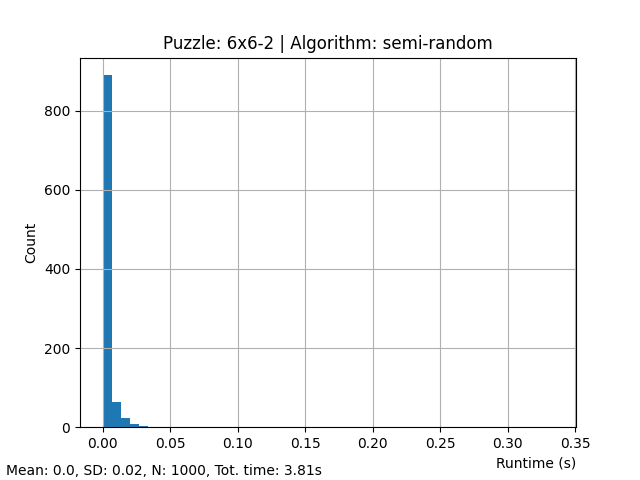
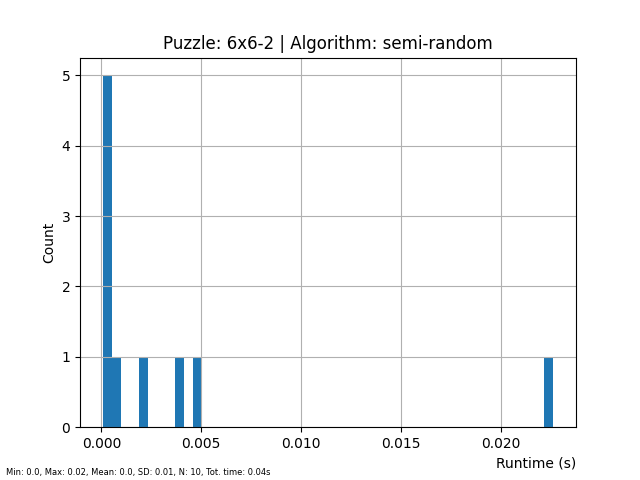
problems hillclimber algorithm histogram

diff --git a/main.py b/main.py
@@ -1,8 +1,6 @@
 """
 Importing required packages
 """
-from ast import AsyncFunctionDef
-import timeit
 import pandas as pd
 from code.algorithms.semi_random import Semi_random
 from code.algorithms.BFS import BFS
@@ -14,88 +12,92 @@ import matplotlib.pyplot as plt
 import numpy as np
 import sys
 import os
-"""
-Setting the dimensions and puzzle number to load correct configuration file 
-"""
-dimensions = 6
-puzzle_number = 1
-Rushhour_df = pd.read_csv(f"gameboards/Rushhour{dimensions}x{dimensions}_{puzzle_number}.csv")
 
-"""
-Creation of the different elements
-"""
-game = Board(dimensions)
-semi_random = Semi_random(game)
-bfs = BFS(game)
-bfs_plus = BFS_plus(game)
-bfs_plus_prune = BFS_plus_prune(game)
-hill = Hill(game)
+dimensions_list = [6, 6, 6, 9, 9, 9]
+puzzle_number_list = [1, 2, 3, 4, 5, 6]
 
-"""
-Setting up the board to run algorithm
-"""
-game.load_cars(Rushhour_df)
-game.place_car(game.cars)
-game.printBoard()
-
-"""
-Run chosen algorithm
-"""
-#hill.hill()
-#bfs_plus.bfs_plus()
-#bfs.bfs()
-#bfs_plus_prune.bfs_plus_prune()
-#semi_random.semi_random()
-
-
-"""
-Set correct output
-"""
-game.printBoard()
-game.writeOutput()
-
-
-def histogram(name, algorithm_obj, algorithm_func, runs):
-
+def easyhistloop(dimensions, puzzle_number, output): 
     """
-    Turn printing off
-    """
-    old_stdout = sys.stdout
-    sys.stdout = open(os.devnull, "w")
-
-    times = []
-    moves = []
-    for i in range(runs): 
-        game.running = True
-        time, move = getattr(algorithm_obj, algorithm_func)()
-        times.append(time)
-        moves.append(move)
-    nbins = 50
-
-    """
-    Turn printing back on
-    """
-    sys.stdout = old_stdout
-
-    """
-    Plotting of histogram
+    Setting the dimensions and puzzle number to load correct configuration file 
     """
 
-    plt.hist(moves, range = [min(moves), max(moves)], bins=nbins)
-    plt.title(f"Puzzle: {dimensions}x{dimensions}-{puzzle_number} | Algorithm: {name}")
-    plt.figtext(0.01, 0.01, f"Mean: {round(np.mean(moves), 2)}, SD: {round(np.std(moves), 2)}, N: {runs}, Tot. time: {round(game.stop - game.start, 2)}s")
-    plt.xlabel(f"# of Moves", horizontalalignment = 'right', x = 1)
-    plt.ylabel(f"Count")
-    plt.grid()
-    plt.savefig(f"figures/Puzzle: {dimensions}x{dimensions}-{puzzle_number} - Algorithm: {name} - moves")
-    plt.clf()
+    Rushhour_df = pd.read_csv(f"gameboards/Rushhour{dimensions}x{dimensions}_{puzzle_number}.csv")
 
-    plt.hist(times, range = [min(times), max(times)], bins=nbins)
-    plt.title(f"Puzzle: {dimensions}x{dimensions}-{puzzle_number} | Algorithm: {name}")
-    plt.figtext(0.01, 0.01, f"Mean: {round(np.mean(times), 2)}, SD: {round(np.std(times), 2)}, N: {runs}, Tot. time: {round(game.stop - game.start, 2)}s")
-    plt.xlabel(f"Runtime (s)", horizontalalignment = 'right', x = 1)
-    plt.ylabel(f"Count")
-    plt.grid()
-    plt.savefig(f"figures/Puzzle: {dimensions}x{dimensions}-{puzzle_number} - Algorithm: {name} - time")
+    """
+    Creation of the different elements
+    """
+    game = Board(dimensions)
+    semi_random = Semi_random(game)
+    bfs = BFS(game)
+    bfs_plus = BFS_plus(game)
+    bfs_plus_prune = BFS_plus_prune(game)
+    hill = Hill(game)
 
-histogram("semi-random", semi_random, "semi_random", 1000)
+    """
+    Setting up the board to run algorithm
+    """
+    game.load_cars(Rushhour_df)
+    game.place_car(game.cars)
+    game.printBoard()
+
+    def histogram(name, algorithm_obj, algorithm_func, runs):
+
+        """
+        Turn printing off
+        """
+        old_stdout = sys.stdout
+        sys.stdout = open(os.devnull, "w")
+
+        times = []
+        moves = []
+        for i in range(runs): 
+            game.running = True
+            time, move = getattr(algorithm_obj, algorithm_func)()
+            times.append(time)
+            moves.append(move)
+        nbins = 50
+
+        output["Name"].append(f"Puzzle: {dimensions}x{dimensions}-{puzzle_number} - Algorithm: {name}")
+        output["Mean time"].append(round(np.mean(times), 2))
+        output["Mean moves"].append(round(np.mean(moves), 2))
+
+        """
+        Turn printing back on
+        """
+        sys.stdout = old_stdout
+
+        """
+        Plotting of histogram
+        """
+
+        plt.hist(moves, range = [min(moves), max(moves)], bins=nbins)
+        plt.title(f"Puzzle: {dimensions}x{dimensions}-{puzzle_number} | Algorithm: {name}")
+        plt.figtext(0.01, 0.01, f"Min: {round(min(moves), 2)}, Max: {round(max(moves), 2)}, Mean: {round(np.mean(moves), 2)}, SD: {round(np.std(moves), 2)}, N: {runs}, Tot. time: {round(game.stop - game.start, 2)}s", fontsize=6)
+        plt.xlabel(f"# of Moves", horizontalalignment = 'right', x = 1)
+        plt.ylabel(f"Count")
+        plt.grid()
+        plt.savefig(f"figures/Puzzle: {dimensions}x{dimensions}-{puzzle_number} - Algorithm: {name} - moves")
+        plt.clf()
+
+        plt.hist(times, range = [min(times), max(times)], bins=nbins)
+        plt.title(f"Puzzle: {dimensions}x{dimensions}-{puzzle_number} | Algorithm: {name}")
+        plt.figtext(0.01, 0.01, f"Min: {round(min(times), 2)}, Max: {round(max(times), 2)}, Mean: {round(np.mean(times), 2)}, SD: {round(np.std(times), 2)}, N: {runs}, Tot. time: {round(game.stop - game.start, 2)}s", fontsize=6)
+        plt.xlabel(f"Runtime (s)", horizontalalignment = 'right', x = 1)
+        plt.ylabel(f"Count")
+        plt.grid()
+        plt.savefig(f"figures/Puzzle: {dimensions}x{dimensions}-{puzzle_number} - Algorithm: {name} - time")
+        plt.clf()
+
+    histogram("semi-random", semi_random, "semi_random", 10)
+
+    """
+    Set correct output
+    """
+    game.printBoard()
+    game.writeOutput()
+
+output = {"Name": [], "Mean time": [], "Mean moves": []}
+for i in range(len(dimensions_list)):
+    easyhistloop(dimensions_list[i], puzzle_number_list[i], output)
+output = pd.DataFrame(output)
+output.to_csv('output/compare.csv')

diff --git a/code/algorithms/hill.py b/code/algorithms/hill.py
@@ -15,7 +15,6 @@ class Hill():
     def hill(self): 
         self.start = timeit.default_timer()
 
-
         semi_random = Semi_random(self.board)
         path = semi_random.semi_random()
 
@@ -50,33 +49,3 @@ class Hill():
         
         print(len(path))
         return self.stop - self.start, len(path)
-        
-
-
-    # NOTE: Kan mogelijk weg
-    """
-    def path_check(self, path):
-        self.board.running = True
-        self.board.load_cars(self.Rushhour_df)
-        self.board.place_car(self.board._cars_init)
-        for i in path: 
-            car, direction = i[0], i[1]
-            if direction == " ": 
-                pass
-            elif direction == "L": 
-                self.board.moveCarLeft(car)
-            elif direction == "R": 
-                self.board.moveCarRight(car)
-            elif direction == "U": 
-                self.board.moveCarUp(car)
-            elif direction == "D": 
-                self.board.moveCarDown(car)
-            self.board.printBoard()
-        if self.board.running == False: 
-            return True
-        else: 
-            return False
-    """
-            
-
-

diff --git a/code/algorithms/semi_random.py b/code/algorithms/semi_random.py
@@ -1,4 +1,3 @@
-from imaplib import Time2Internaldate
 import random
 import timeit
 
@@ -21,10 +20,8 @@ class Semi_random():
             self.moveDown(path)
         self.board.stop = timeit.default_timer()
         self.stop = timeit.default_timer()
-        #print(f"Time {self.board.stop - self.board.start} seconds")
-        #print(f"Number of moves: {self.board.movecounter}")
-        #return path
-        return self.stop - self.start, self.board.movecounter
+        #return path #required for hill.py
+        return self.stop - self.start, self.board.movecounter #enable to make histogram
 
     def moveLeft(self, path): 
         car = random.choice(random.choice(self.board.cars)._name)
